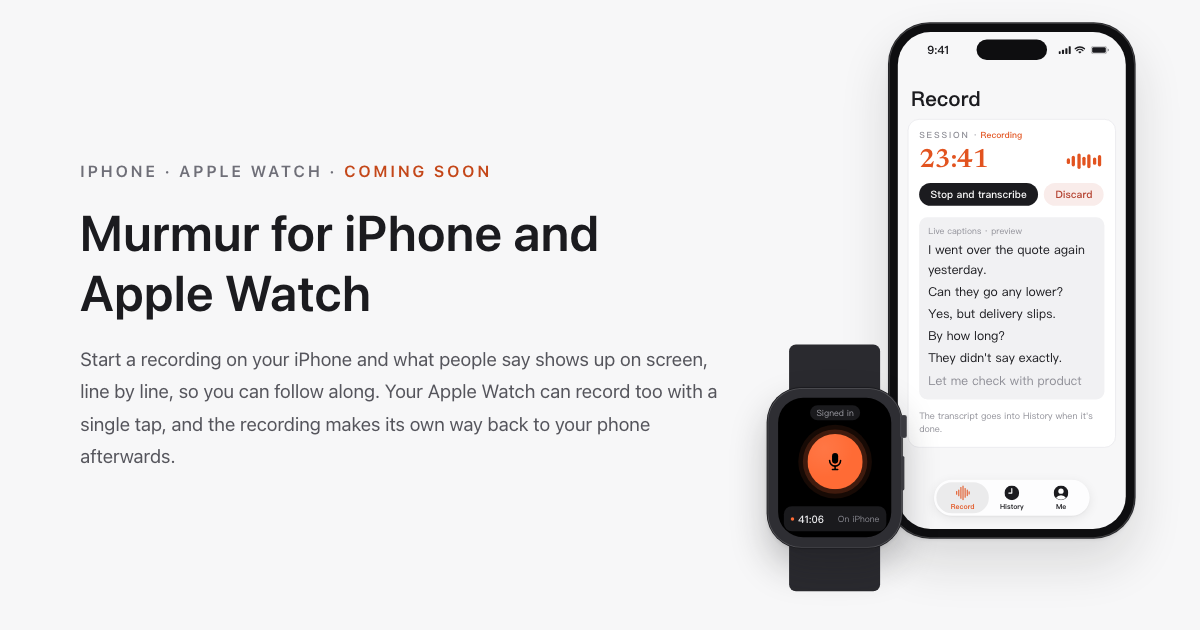
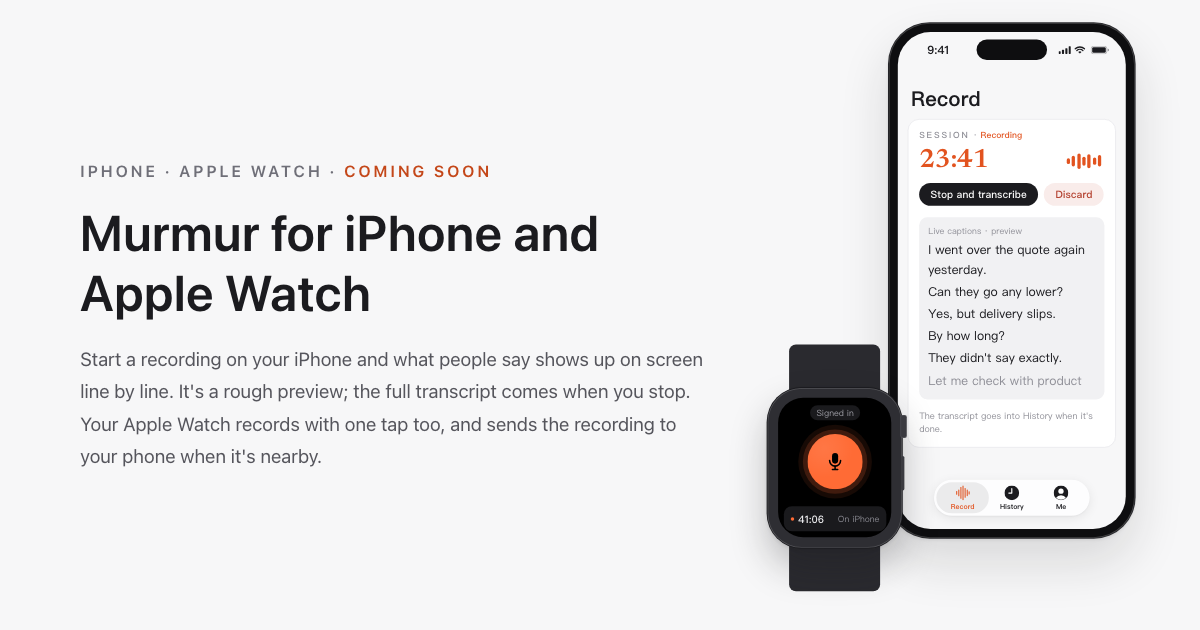
手机与手表页:按审核表逐句改掉 9 处 AI 味(review M-1 / T-1~9)
为什么:独立审核列了 9 句仍像 AI 写的:录音被写成「自己走回手机」、同一件事说两遍再加一句格言、
一页四次「你不用操心」式收尾、英文全篇不缩写、导语在给读者讲页面结构、FAQ 模板标题、
隐私链接塞三项排比、英文操作说明里套场景小故事;英文首屏还丢了「只是预览」这层意思。

改了什么:
- 首屏:中文「录好的东西之后会自己回到手机里」→「手表靠近手机时会把录音传过去」;英文改成
  "It's a rough preview; the full transcript comes when you stop. ... sends the recording to your phone when it's nearby."
- 删掉「怎么用」下面的导语(「拿手表走一遍是下面这样……」/ "Here is what it looks like…simpler still"),小标题下直接进步骤。
- 第 2 步只留「录音先存在手表里,手机不带在身边也能录」(全页唯一一处安抚式收尾);英文标题与正文不再矛盾。
- 第 4 步不再说「你什么都不用点」,改成可验证的界面:传完表上显示「已传给 iPhone」。
- 「转写失败了怎么办」只留「录音会留着。」/ "You keep the recording."
- 「你可能想问 / Things people ask」→「细节 / The details」;隐私链接缩成「数据交给谁、留多久,写在隐私页 →」。
- 英文全篇改缩写(isn't / aren't / you're / it's / that's);第 1 步先说动作再一句带过讲座场景。
- meta description 同步,og 图重出。重复短语仍为 0(英文放过一个界面标签 Sent to iPhone)。

Changed region(s): [[0.0617, 0.6635, 0.555, 0.754], [0.1542, 0.6032, 0.5858, 0.6333]]

diff --git a/en/mobile/index.html b/en/mobile/index.html
@@ -6,14 +6,14 @@
 <meta http-equiv="Content-Security-Policy" content="default-src 'none'; script-src 'self'; style-src 'self'; img-src 'self' data:; font-src 'self'; connect-src 'none'; object-src 'none'; base-uri 'none'; form-action 'none'">
 <meta name="viewport" content="width=device-width, initial-scale=1">
 <title>iPhone and Apple Watch · Murmur</title>
-<meta name="description" content="Record on your iPhone and get a full transcript split by speaker. Tap your Apple Watch to record and it goes back to your phone. Coming soon.">
+<meta name="description" content="Record on your iPhone and get a full transcript split by speaker. Tap your Apple Watch to record, and it sends the audio to your phone once they're close. Coming soon.">
 <link rel="canonical" href="https://maobenbeginner.com/en/mobile/">
 <meta property="og:type" content="website">
 <meta property="og:site_name" content="Murmur">
 <meta property="og:locale" content="en_US">
 <meta property="og:url" content="https://maobenbeginner.com/en/mobile/">
 <meta property="og:title" content="iPhone and Apple Watch · Murmur">
-<meta property="og:description" content="Record on your iPhone and get a full transcript split by speaker. Tap your Apple Watch to record and it goes back to your phone. Coming soon.">
+<meta property="og:description" content="Record on your iPhone and get a full transcript split by speaker. Tap your Apple Watch to record, and it sends the audio to your phone once they're close. Coming soon.">
 <meta property="og:image" content="https://maobenbeginner.com/shots/mobile/og-en.png">
 <meta property="og:image:width" content="1200">
 <meta property="og:image:height" content="630">
@@ -53,7 +53,7 @@
   <div class="m-hero-t">
     <p class="eyebrow">iPhone · Apple Watch · <span class="m-soon">Coming soon</span></p>
     <h1>Murmur for iPhone and Apple Watch</h1>
-    <p class="sub">Start a recording on your iPhone and what people say shows up on screen, line by line, so you can follow along. Your Apple Watch can record too with a single tap, and the recording makes its own way back to your phone afterwards.</p>
+    <p class="sub">Start a recording on your iPhone and what people say shows up on screen line by line. It's a rough preview; the full transcript comes when you stop. Your Apple Watch records with one tap too, and sends the recording to your phone when it's nearby.</p>
     <div class="m-cta">
       <a class="btn btn-primary" href="../index.html#download">Start on the Mac</a>
       <a class="btn btn-quiet" href="#how">See the steps</a>
@@ -109,37 +109,36 @@
 <main class="wrap">
   <section class="m-sec" id="how">
     <h2>How it works</h2>
-    <p class="lead">Here is what it looks like with the watch. Recording on the iPhone is simpler still, since you start and stop it right there.</p>
     <ol class="m-line">
       <li>
         <div class="mc" aria-hidden="true"><div class="mc-case"><div class="mc-glass"><span class="mc-orb"><svg viewBox="0 0 24 24"><rect x="8.25" y="1.5" width="7.5" height="13" rx="3.75" fill="currentColor"/><path d="M5.25 10.75a6.75 6.75 0 0 0 13.5 0" fill="none" stroke="currentColor" stroke-width="1.9" stroke-linecap="round"/><path d="M12 17.75V21.5M8.75 21.75h6.5" fill="none" stroke="currentColor" stroke-width="1.9" stroke-linecap="round"/></svg></span></div></div></div>
         <p class="m-n">1</p>
         <h3>Tap the orange button</h3>
-        <p>If you are sitting at the back of a talk and would rather not dig out your phone, lift your wrist and tap once.</p>
+        <p>Lift your wrist and tap once. Handy at a talk, when you'd rather not get your phone out.</p>
       </li>
       <li>
         <div class="mc" aria-hidden="true"><div class="mc-case"><div class="mc-glass"><span class="mc-mic"></span><span class="mc-dim">10:09</span></div></div></div>
         <p class="m-n">2</p>
-        <h3>Recording with the screen off</h3>
-        <p>Put your arm down and the screen dims, but the recording carries on. It is saved on the watch first, so your phone does not have to be with you.</p>
+        <h3>It keeps going when the screen dims</h3>
+        <p>The audio is saved on the watch first, so you can leave your phone behind.</p>
       </li>
       <li>
         <div class="mc" aria-hidden="true"><div class="mc-case"><div class="mc-glass"><svg class="mc-ring" viewBox="0 0 40 40"><circle class="bg" cx="20" cy="20" r="18"/><circle class="fg" cx="20" cy="20" r="18" transform="rotate(-90 20 20)"/></svg><span class="mc-quad"><i class="on"></i><i class="on"></i><i class="on"></i><i></i></span></div></div></div>
         <p class="m-n">3</p>
         <h3>Press and hold to stop</h3>
-        <p>When you are done, keep a finger on the screen until it says Saved, then let go.</p>
+        <p>When you're done, keep a finger on the screen until it says Saved.</p>
       </li>
       <li>
         <div class="mc" aria-hidden="true"><div class="mc-case"><div class="mc-glass"><svg class="mc-spin" viewBox="0 0 24 24"><g stroke="#A0A0A8" stroke-width="2.4" stroke-linecap="round"><path d="M12 2.5v5"/><path d="M18.7 5.3l-3.5 3.5" opacity=".88"/><path d="M21.5 12h-5" opacity=".76"/><path d="M18.7 18.7l-3.5-3.5" opacity=".64"/><path d="M12 21.5v-5" opacity=".52"/><path d="M5.3 18.7l3.5-3.5" opacity=".4"/><path d="M2.5 12h5" opacity=".3"/><path d="M5.3 5.3l3.5 3.5" opacity=".22"/></g></svg><span class="mc-send">Sending to iPhone</span></div></div></div>
         <p class="m-n">4</p>
-        <h3>Get near your iPhone</h3>
-        <p>Once the watch is close to your iPhone, it sends the recording over by itself. You do not need to do anything.</p>
+        <h3>Get back near your iPhone</h3>
+        <p>Once the transfer is done, the watch says Sent to iPhone.</p>
       </li>
       <li>
         <div class="mc" aria-hidden="true"><div class="mc-case mc-phone"><div class="mc-glass"><p class="mc-line l1"><b>Speaker 1: </b>Quote?</p><p class="mc-line l2"><b>Speaker 2: </b>Soon.</p></div></div></div>
         <p class="m-n">5</p>
         <h3>Open the transcript</h3>
-        <p>The phone transcribes what it receives and puts the finished text in History. Tap it to read.</p>
+        <p>Your phone transcribes the recording and adds the full text to History.</p>
       </li>
     </ol>
 
@@ -190,7 +189,7 @@
 
   <!-- Four facts. The privacy cell only uses wording already on the home and privacy pages -->
   <section class="m-sec" id="facts">
-    <h2>Things people ask</h2>
+    <h2>The details</h2>
     <div class="m-facts">
       <div class="m-fact">
         <h3>How long can it record?</h3>
@@ -198,22 +197,22 @@
       </div>
       <div class="m-fact">
         <h3>Can it tell who is talking?</h3>
-        <p>Yes, in the full transcript you get after recording. It is split into Speaker 1, Speaker 2 and so on, which helps most with interviews. The text you see while recording is only a preview and is not split yet.</p>
+        <p>Yes, after recording. The transcript is split into Speaker 1, Speaker 2 and so on, which helps most with interviews. The live text isn't split by speaker.</p>
       </div>
       <div class="m-fact">
         <h3>What if transcription fails?</h3>
-        <p>The recording is kept. A failed transcription does not take the audio with it.</p>
+        <p>You keep the recording.</p>
       </div>
       <div class="m-fact">
         <h3>Where are recordings stored?</h3>
         <p>Your recordings and history are kept on your own device.</p>
-        <a href="../privacy.html">The privacy page lists the kinds of providers involved, the countries they are in, and how long data is kept →</a>
+        <a href="../privacy.html">Who handles your data, and for how long, is on the privacy page →</a>
       </div>
     </div>
   </section>
 
   <section class="m-sec m-outro" id="now">
-    <p class="big">The phone and watch apps are not out yet.</p>
+    <p class="big">The phone and watch apps aren't out yet.</p>
     <p class="fine">The Mac app works today on the same account, and once you sign in on the phone, the watch signs in too.</p>
     <div class="m-cta">
       <a class="btn btn-primary" href="../index.html#download">Download for Mac</a>

diff --git a/mobile/index.html b/mobile/index.html
@@ -6,14 +6,14 @@
 <meta http-equiv="Content-Security-Policy" content="default-src 'none'; script-src 'self'; style-src 'self'; img-src 'self' data:; font-src 'self'; connect-src 'none'; object-src 'none'; base-uri 'none'; form-action 'none'">
 <meta name="viewport" content="width=device-width, initial-scale=1">
 <title>手机与手表 · Murmur</title>
-<meta name="description" content="在 iPhone 上开着录,录完的全文分出谁在说;Apple Watch 上点一下就录,之后传回手机。手机版和手表版即将推出。">
+<meta name="description" content="在 iPhone 上开着录,录完的全文分出谁在说;Apple Watch 上点一下就录,靠近手机时传过去。手机版和手表版即将推出。">
 <link rel="canonical" href="https://maobenbeginner.com/mobile/">
 <meta property="og:type" content="website">
 <meta property="og:site_name" content="Murmur">
 <meta property="og:locale" content="zh_CN">
 <meta property="og:url" content="https://maobenbeginner.com/mobile/">
 <meta property="og:title" content="手机与手表 · Murmur">
-<meta property="og:description" content="在 iPhone 上开着录,录完的全文分出谁在说;Apple Watch 上点一下就录,之后传回手机。手机版和手表版即将推出。">
+<meta property="og:description" content="在 iPhone 上开着录,录完的全文分出谁在说;Apple Watch 上点一下就录,靠近手机时传过去。手机版和手表版即将推出。">
 <meta property="og:image" content="https://maobenbeginner.com/shots/mobile/og-zh.png">
 <meta property="og:image:width" content="1200">
 <meta property="og:image:height" content="630">
@@ -53,7 +53,7 @@
   <div class="m-hero-t">
     <p class="eyebrow">iPhone 和 Apple Watch · <span class="m-soon">即将推出</span></p>
     <h1>手机和手表上的 Murmur</h1>
-    <p class="sub">在 iPhone 上开着录,大家说的话会一句句出现在屏幕上,先给你看个大概。手腕上的 Apple Watch 点一下也能录,录好的东西之后会自己回到手机里。</p>
+    <p class="sub">在 iPhone 上开着录,大家说的话会一句句出现在屏幕上,先给你看个大概。Apple Watch 上点一下也能录,手表靠近手机时会把录音传过去。</p>
     <div class="m-cta">
       <a class="btn btn-primary" href="../index.html#download">先用 Mac 版</a>
       <a class="btn btn-quiet" href="#how">看看怎么用</a>
@@ -109,7 +109,6 @@
 <main class="wrap">
   <section class="m-sec" id="how">
     <h2>怎么用</h2>
-    <p class="lead">拿手表走一遍是下面这样。用 iPhone 录的话更直接,开始、结束都在手机屏幕上点。</p>
     <ol class="m-line">
       <li>
         <div class="mc" aria-hidden="true"><div class="mc-case"><div class="mc-glass"><span class="mc-orb"><svg viewBox="0 0 24 24"><rect x="8.25" y="1.5" width="7.5" height="13" rx="3.75" fill="currentColor"/><path d="M5.25 10.75a6.75 6.75 0 0 0 13.5 0" fill="none" stroke="currentColor" stroke-width="1.9" stroke-linecap="round"/><path d="M12 17.75V21.5M8.75 21.75h6.5" fill="none" stroke="currentColor" stroke-width="1.9" stroke-linecap="round"/></svg></span></div></div></div>
@@ -121,7 +120,7 @@
         <div class="mc" aria-hidden="true"><div class="mc-case"><div class="mc-glass"><span class="mc-mic"></span><span class="mc-dim">10:09</span></div></div></div>
         <p class="m-n">2</p>
         <h3>屏幕暗了也在录</h3>
-        <p>手放下来,表屏暗下去,录音不会停。声音先存在手表里,所以手机不在身边也没关系。</p>
+        <p>录音先存在手表里,手机不带在身边也能录。</p>
       </li>
       <li>
         <div class="mc" aria-hidden="true"><div class="mc-case"><div class="mc-glass"><svg class="mc-ring" viewBox="0 0 40 40"><circle class="bg" cx="20" cy="20" r="18"/><circle class="fg" cx="20" cy="20" r="18" transform="rotate(-90 20 20)"/></svg><span class="mc-quad"><i class="on"></i><i class="on"></i><i class="on"></i><i></i></span></div></div></div>
@@ -133,13 +132,13 @@
         <div class="mc" aria-hidden="true"><div class="mc-case"><div class="mc-glass"><svg class="mc-spin" viewBox="0 0 24 24"><g stroke="#A0A0A8" stroke-width="2.4" stroke-linecap="round"><path d="M12 2.5v5"/><path d="M18.7 5.3l-3.5 3.5" opacity=".88"/><path d="M21.5 12h-5" opacity=".76"/><path d="M18.7 18.7l-3.5-3.5" opacity=".64"/><path d="M12 21.5v-5" opacity=".52"/><path d="M5.3 18.7l3.5-3.5" opacity=".4"/><path d="M2.5 12h5" opacity=".3"/><path d="M5.3 5.3l3.5 3.5" opacity=".22"/></g></svg><span class="mc-send">正在传给 iPhone</span></div></div></div>
         <p class="m-n">4</p>
         <h3>走回手机旁边</h3>
-        <p>手表靠近你的 iPhone 时,会自己把录音传过去,你什么都不用点。</p>
+        <p>回到 iPhone 附近就行。传完以后,表上会显示「已传给 iPhone」。</p>
       </li>
       <li>
         <div class="mc" aria-hidden="true"><div class="mc-case mc-phone"><div class="mc-glass"><p class="mc-line l1"><b>说话人 1:</b>报价呢?</p><p class="mc-line l2"><b>说话人 2:</b>下午发。</p></div></div></div>
         <p class="m-n">5</p>
         <h3>打开手机看全文</h3>
-        <p>手机收到以后去转写,转好的全文放在历史里,点开就能看。</p>
+        <p>手机收到录音后转写,全文放进历史。</p>
       </li>
     </ol>
 
@@ -190,7 +189,7 @@
 
   <!-- 四格事实。隐私那格只用首页与隐私页已有的说法,不造新承诺 -->
   <section class="m-sec" id="facts">
-    <h2>你可能想问</h2>
+    <h2>细节</h2>
     <div class="m-facts">
       <div class="m-fact">
         <h3>能录多久</h3>
@@ -198,16 +197,16 @@
       </div>
       <div class="m-fact">
         <h3>分不分得出谁在说</h3>
-        <p>录完转写出来的全文会按人分开,标成说话人 1、说话人 2,采访这种一问一答的最用得上。录的时候屏幕上出的字只是预览,还不分人。</p>
+        <p>录完转写出来的全文会按人分开,标成说话人 1、说话人 2,采访这种一问一答的最用得上。录的时候出的字还不分人。</p>
       </div>
       <div class="m-fact">
         <h3>转写失败了怎么办</h3>
-        <p>录音会留着。转写没成功,声音也不会跟着丢。</p>
+        <p>录音会留着。</p>
       </div>
       <div class="m-fact">
         <h3>录音存在哪</h3>
         <p>录音和历史,存在你自己的设备上。</p>
-        <a href="../privacy.html">交给了哪类服务商、它们在哪个国家、东西留多久,写在隐私页 →</a>
+        <a href="../privacy.html">数据交给谁、留多久,写在隐私页 →</a>
       </div>
     </div>
   </section>
